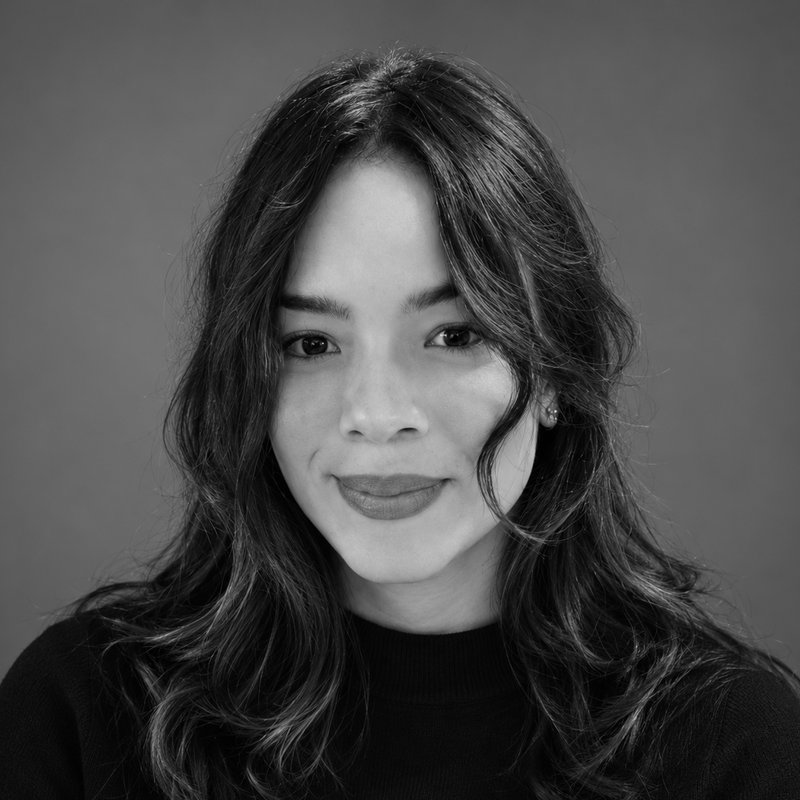
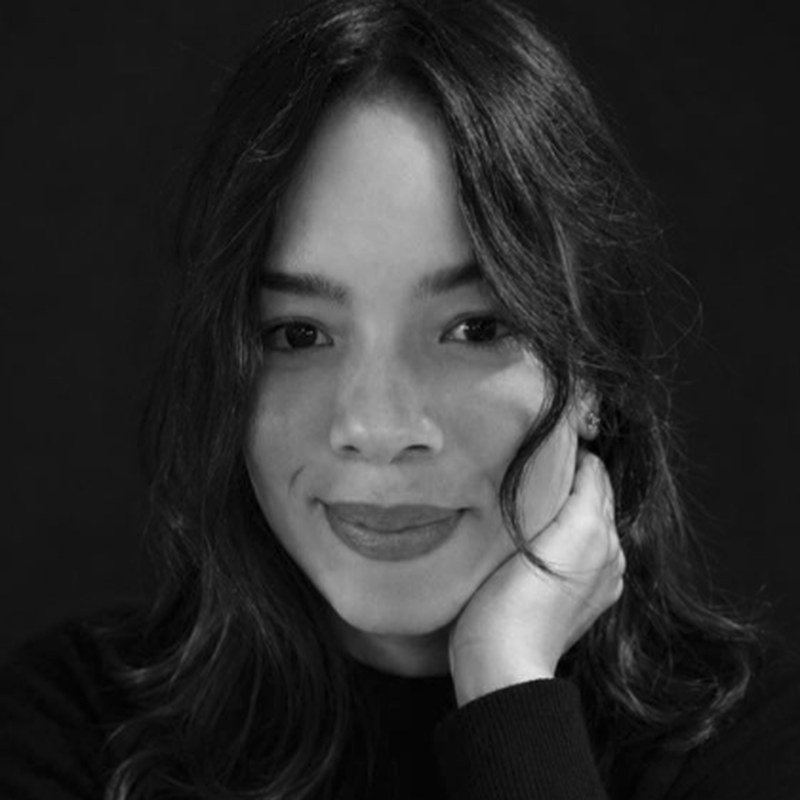
Martha Liliana Díaz Bustamante, Doctora en Ingeniería (2026)
- Pasa de los doctorados en curso a las egresadas: ficha en graduated/phd con su foto nueva,
  el resumen de su trabajo y el año de inicio; queda sin título de tesis ni cargo actual
  hasta tenerlos (thesisTitle pasa a ser opcional y la página muestra solo el resumen).
- /school: su párrafo entre los doctores y las cinco tesis; school.ts regenerado (cinco
  doctores, dos doctorados en curso, 42 egresados).
- /research/program: el caso de diseño sensorial la nombra como doctora, con su retrato.
- Su testimonio dice Doctora en Ingeniería, 2026, con la foto nueva.

Claude-Session: https://claude.ai/code/session_01PJbaXR3aNnjgr5EpgrT265

diff --git a/context/strings/researchChapter.ts b/context/strings/researchChapter.ts
@@ -115,6 +115,7 @@ export const researchChapter = {
   'rc.lvl.phd.now':       { en: 'Doctorate, in progress', es: 'Doctorado, en curso' },
   'rc.lvl.phd.co.now':    { en: 'Doctorate, co-advised, in progress', es: 'Doctorado, codirigido, en curso' },
   'rc.lvl.phd.felipe':    { en: 'Doctorate, with Felipe Reinoso-Carvalho', es: 'Doctorado, con Felipe Reinoso-Carvalho' },
+  'rc.lvl.phd.oscar':     { en: 'Doctorate, with Óscar Alberto Álvarez Solano, 2026', es: 'Doctorado, con Óscar Alberto Álvarez Solano, 2026' },
   'rc.lvl.ms':            { en: 'Master’s', es: 'Maestría' },
   'rc.lvl.ms.co':         { en: 'Master’s, co-advised', es: 'Maestría, codirigida' },
   'rc.lvl.ms.now':        { en: 'Master’s, in progress', es: 'Maestría, en curso' },
@@ -154,7 +155,7 @@ export const researchChapter = {
   'rc.case.sound.p1':     { en: 'Many healthier or more sustainable foods lose out to conventional ones because of what consumers expect from them and because of their texture. We asked whether both can be designed. With Felipe Reinoso-Carvalho, of the School of Management, I advised the doctorate of Brayan Rodríguez, now a professor at Pontificia Universidad Javeriana. In experiments with 592 people, the sound of a beer poured from the bottle reduced negative emotions toward non-alcoholic beer and raised its expected freshness. In work with Felipe’s collaborators at Instituto Universitário de Lisboa (Iscte), sounds of nature strengthened the perceived environmental sustainability of a product, and sounds of groups of people its social sustainability, in two studies with 517 participants.', es: 'Muchos alimentos más sanos o sostenibles pierden frente a los convencionales por lo que el consumidor espera de ellos y por su textura. Nos preguntamos si se pueden diseñar las dos cosas. Con Felipe Reinoso-Carvalho, de la Facultad de Administración, dirigí el doctorado de Brayan Rodríguez, hoy profesor de la Pontificia Universidad Javeriana. En experimentos con 592 personas, el sonido de una cerveza servida desde la botella redujo las emociones negativas hacia la cerveza sin alcohol y aumentó la frescura esperada. En un trabajo con colaboradores de Felipe en el Instituto Universitário de Lisboa (Iscte), los sonidos de la naturaleza reforzaron la sostenibilidad ambiental percibida de un producto, y los de grupos de personas, la social, en dos estudios con 517 participantes.' },
   'rc.case.sound.p2':     { en: 'In the last chapter of his doctorate, Brayan trained a deep learning model, on music that people had already rated, to predict how sweet, bitter, salty, sour or spicy a piece of music sounds. With those predictions we built Sonic Seasoning, an app that assembles playlists for the flavor profile and the genre you choose. The article is under review; the app is public and anyone can use it.', es: 'En el último capítulo de su doctorado, Brayan entrenó un modelo de aprendizaje profundo, con música que personas ya habían calificado, para predecir qué tan dulce, amarga, salada, ácida o picante suena una pieza. Con esas predicciones hicimos Sonic Seasoning, una aplicación que arma listas de reproducción según el perfil de sabor y el género que usted elija. El artículo está en revisión; la aplicación es pública y cualquiera puede usarla.' },
   'rc.case.sound.app':    { en: 'Open Sonic Seasoning', es: 'Abrir Sonic Seasoning' },
-  'rc.case.sound.p3':     { en: 'We study texture with Martha Liliana Díaz-Bustamante, now my doctoral student, and with Óscar Alberto Álvarez Solano. Two costeño cheeses with half and a quarter of the salt, cooked at 55 °C, resembled the control in composition and texture. In a soy yogurt, replacing 25 % of the protein with yeast grown on whey raised firmness by 54 % and cut fermentation to seven or eight hours, against almost 17. How consumers receive it is still to be measured.', es: 'La textura la estudiamos con Martha Liliana Díaz-Bustamante, hoy mi doctoranda, y con Óscar Alberto Álvarez Solano. Dos quesos costeños con la mitad y la cuarta parte de la sal, cocidos a 55 °C, se parecieron al control en composición y textura. En un yogur de soya, cambiar el 25 % de la proteína por levadura cultivada en lactosuero aumentó la firmeza 54 % y bajó la fermentación a siete u ocho horas, frente a casi 17. Falta medir cómo lo recibe el consumidor.' },
+  'rc.case.sound.p3':     { en: 'We studied texture with Martha Liliana Díaz-Bustamante, who earned her doctorate in 2026, and with Óscar Alberto Álvarez Solano. Two costeño cheeses with half and a quarter of the salt, cooked at 55 °C, resembled the control in composition and texture. In a soy yogurt, replacing 25 % of the protein with yeast grown on whey raised firmness by 54 % and cut fermentation to seven or eight hours, against almost 17. How consumers receive it is still to be measured.', es: 'La textura la estudiamos con Martha Liliana Díaz-Bustamante, que se doctoró en 2026, y con Óscar Alberto Álvarez Solano. Dos quesos costeños con la mitad y la cuarta parte de la sal, cocidos a 55 °C, se parecieron al control en composición y textura. En un yogur de soya, cambiar el 25 % de la proteína por levadura cultivada en lactosuero aumentó la firmeza 54 % y bajó la fermentación a siete u ocho horas, frente a casi 17. Falta medir cómo lo recibe el consumidor.' },
   'rc.case.sound.p4':     { en: 'Yeast shapes much of the flavor and aroma of a beer, and Carlos Yesiel González Murcia looks for it in Colombian biodiversity. Since 2026 he has been doing a Doctorate in Engineering on native yeasts for brewing, advised by Nicolás Ríos Ratkovich, of my department, and co-advised by me.', es: 'La levadura define buena parte del sabor y del aroma de una cerveza, y Carlos Yesiel González Murcia la busca en la biodiversidad colombiana. Desde 2026 hace el Doctorado en Ingeniería sobre levaduras nativas para producir cerveza, que dirige Nicolás Ríos Ratkovich, de mi departamento, y yo codirijo.' },
   'rc.case.sound.p5':     { en: 'On customer-centered food design I edited, with Andrea Sánchez-Camargo, Felipe Reinoso-Carvalho and Juan Carlos Cruz, *The Fundamentals of Customer-Centered Design of Food Products: A Multisensory Strategy Integrating Emerging Techniques*, which is in press with Academic Press (Elsevier) and comes out in February 2027.', es: 'Sobre el diseño de alimentos centrado en el consumidor edité, con Andrea Sánchez-Camargo, Felipe Reinoso-Carvalho y Juan Carlos Cruz, *The Fundamentals of Customer-Centered Design of Food Products: A Multisensory Strategy Integrating Emerging Techniques*, que está en prensa en Academic Press (Elsevier) y sale en febrero de 2027.' },
   'rc.case.sound.photo':  { en: 'Brayan Rodríguez with his Doctor of Engineering diploma, between his two advisors, 2025', es: 'Brayan Rodríguez con su diploma de Doctor en Ingeniería, entre sus dos directores, 2025' },

diff --git a/context/strings/school.ts b/context/strings/school.ts
@@ -77,7 +77,8 @@ export const school = {
   'school.phd.brayan': { en: 'He came from Universidad del Valle after a collaboration on how sound influences the choice of non-alcoholic beers. In his Doctorate in Engineering, which I co-advised with Felipe Reinoso-Carvalho and which he finished in 2025, he studied how sound changes the way we perceive sustainable food; of his {total} publications with me, he is first author of {first}. Today he is an assistant professor at Pontificia Universidad Javeriana.', es: 'Llegó desde la Universidad del Valle a raíz de una colaboración sobre cómo el sonido influye en la elección de cervezas sin alcohol. En su Doctorado en Ingeniería, que codirigí con Felipe Reinoso-Carvalho y que terminó en 2025, estudió cómo el sonido cambia la manera en que percibimos los alimentos sostenibles; de sus {total} publicaciones conmigo, en {first} es primer autor. Hoy es profesor asistente en la Pontificia Universidad Javeriana.' },
   'school.phd.becerra': { en: 'He did the Doctorate in Technological Innovation Management, which Juan Carlos Cruz and I advised and which he also finished in 2025, on a systemic model of technology extension for oil palm farming. He is first author of his {total} publications with me: {articles} articles and their Spanish translations, published by the journal *Palmas*. Today he leads technology extension at the Corporación Centro de Investigación en Palma de Aceite (Cenipalma). In 2026 Julián and Brayan published a paper together in *Scientific Reports* on how oil palm growers adopt sustainable practices.', es: 'Hizo el Doctorado en Gestión de la Innovación Tecnológica, que dirigimos Juan Carlos Cruz y yo y que terminó también en 2025, sobre un modelo sistémico de extensión tecnológica para el cultivo de palma de aceite. Es primer autor de sus {total} publicaciones conmigo: {articles} artículos y sus traducciones al español, que publicó la revista *Palmas*. Hoy dirige la extensión tecnológica de la Corporación Centro de Investigación en Palma de Aceite (Cenipalma). En 2026, Julián y Brayan publicaron juntos un artículo en *Scientific Reports* sobre cómo los palmicultores adoptan prácticas sostenibles.' },
   'school.phd.leal':   { en: 'He did the Doctorate in Biological Sciences at Pontificia Universidad Javeriana (2019-2023), which I co-advised. His project came from the Institute for the Study of Inborn Errors of Metabolism of the Javeriana, where I arrived in 2015 as the only engineer among biologists, microbiologists and pharmaceutical chemists. In his thesis he used CRISPR/nCas9 and non-viral vectors made of iron oxide nanoparticles to edit the genome in two rare diseases, GM2 gangliosidoses and mucopolysaccharidosis IVA. With that work we received in 2023 the award for the best scientific research in human health of the National Academy of Medicine of Colombia and the honorable mention in Exact, Physical and Natural Sciences of the Fundación Alejandro Ángel Escobar. He is first author of his {total} publications with me and today is co-founder and Chief Scientific Officer of Genine Therapeutics, in Bogotá.', es: 'Hizo el Doctorado en Ciencias Biológicas en la Pontificia Universidad Javeriana (2019-2023), y lo codirigí. Su proyecto venía del Instituto de Errores Innatos del Metabolismo de la Javeriana, al que llegué en 2015 como el único ingeniero entre biólogos, microbiólogos y químicos farmacéuticos. En su tesis usó CRISPR/nCas9 y vectores no virales de nanopartículas de óxido de hierro para editar el genoma en dos enfermedades raras, las gangliosidosis GM2 y la mucopolisacaridosis IVA. Con ese trabajo recibimos en 2023 el premio al mejor trabajo de investigación científica en salud humana de la Academia Nacional de Medicina de Colombia y la mención de honor en Ciencias Exactas, Físicas y Naturales de la Fundación Alejandro Ángel Escobar. Es primer autor de sus {total} publicaciones conmigo y hoy es cofundador y director científico de Genine Therapeutics, en Bogotá.' },
-  'school.phd.close':  { en: 'The {n} theses deal with nanomedicine, sensory perception, agricultural extension and genome editing, and they share something I defend in my teaching philosophy: with solid fundamentals you can move between disciplines without starting from zero.', es: 'Las {n} tesis tratan de nanomedicina, percepción sensorial, extensión agrícola y edición genómica, y las une lo que defiendo en mi filosofía docente: con fundamentos sólidos uno se mueve entre disciplinas sin empezar de cero.' },
+  'school.phd.diaz':   { en: 'She came to the group through Óscar Alberto Álvarez Solano, who supervised her first paper, from 2020, on costeño cheese with less salt. That year she started the Doctorate in Engineering, which Óscar and I co-advised and which she finished in November 2026, with a multiscale approach to designing dairy and cocoa bioproducts; her most recent work, a soy yogurt with part of its protein replaced by yeast grown on whey, came out in *ACS Omega* in 2026. She is first author of her {total} publications with me.', es: 'Llegó al grupo por Óscar Alberto Álvarez Solano, que supervisó su primer artículo, de 2020, sobre queso costeño con menos sal. Ese año empezó el Doctorado en Ingeniería, que codirigimos Óscar y yo y que terminó en noviembre de 2026, con un enfoque multiescala para diseñar bioproductos de lácteos y cacao; su trabajo más reciente, un yogur de soya con parte de la proteína cambiada por levadura cultivada en lactosuero, salió en *ACS Omega* en 2026. Es primera autora de sus {total} publicaciones conmigo.' },
+  'school.phd.close':  { en: 'The {n} theses deal with nanomedicine, sensory perception, agricultural extension, genome editing and food design, and they share something I defend in my teaching philosophy: with solid fundamentals you can move between disciplines without starting from zero.', es: 'Las {n} tesis tratan de nanomedicina, percepción sensorial, extensión agrícola, edición genómica y diseño de alimentos, y las une lo que defiendo en mi filosofía docente: con fundamentos sólidos uno se mueve entre disciplinas sin empezar de cero.' },
   'school.phd.philosophy': { en: 'My teaching philosophy', es: 'Mi filosofía docente' },
   'school.phd.brayanPhoto': { en: 'Brayan Rodríguez, Doctor of Engineering, with Felipe Reinoso-Carvalho and me, 2025.', es: 'Brayan Rodríguez, Doctor en Ingeniería, con Felipe Reinoso-Carvalho y conmigo, 2025.' },
   'school.phd.julianPhoto': { en: 'Julián Fernando Becerra-Encinales with Juan Carlos Cruz and me, 2025.', es: 'Julián Fernando Becerra-Encinales con Juan Carlos Cruz y conmigo, 2025.' },

diff --git a/components/data/students/graduated/phd/martha-liliana-diaz-bustamante.ts b/components/data/students/graduated/phd/martha-liliana-diaz-bustamante.ts
@@ -1,0 +1,26 @@
+import type { GraduatedStudent } from '../../../../types';
+
+const student: GraduatedStudent = {
+    name: 'Martha Liliana Díaz Bustamante',
+    degree: 'Doctor',
+    program: { en: 'Doctor of Engineering', es: 'Doctora en Ingeniería' },
+    graduationYear: 2026,
+    startedYear: 2020,
+    laymanSummary: [
+        {
+            question: { en: 'What was the problem?', es: '¿Cuál era el problema?' },
+            answer: { en: 'Healthier or more sustainable foods often lose out because they do not feel or behave like the products people already know. Dairy products are a clear case: taking out salt or replacing animal protein changes their texture and the way they are made.', es: 'Los alimentos más sanos o más sostenibles suelen perder porque no se sienten ni se comportan como los productos que la gente ya conoce. Los lácteos son un caso claro: quitarles sal o cambiar la proteína animal les cambia la textura y la manera de fabricarlos.' }
+        },
+        {
+            question: { en: 'What was the approach?', es: '¿Cuál fue el enfoque?' },
+            answer: { en: 'A multiscale approach to bioproduct design in dairy and cocoa production: it links what happens to molecules and microorganisms with the structure, the texture and the process of the whole product.', es: 'Un enfoque multiescala al diseño de bioproductos en la producción de lácteos y cacao, que une lo que pasa con las moléculas y los microorganismos con la estructura, la textura y el proceso del producto completo.' }
+        },
+        {
+            question: { en: 'What were the findings?', es: '¿Cuáles fueron los hallazgos?' },
+            answer: { en: 'Two costeño cheeses with half and a quarter of the salt, cooked at 55 °C, resembled the original in composition and texture. In a soy yogurt, replacing 25 % of the protein with yeast grown on whey raised firmness by 54 % and cut fermentation to seven or eight hours, against almost 17.', es: 'Dos quesos costeños con la mitad y la cuarta parte de la sal, cocidos a 55 °C, se parecieron al original en composición y textura. En un yogur de soya, cambiar el 25 % de la proteína por levadura cultivada en lactosuero aumentó la firmeza 54 % y bajó la fermentación a siete u ocho horas, frente a casi 17.' }
+        }
+    ],
+    imageUrl: '/images/students/martha-liliana-diaz-bustamante.jpg',
+};
+
+export default student;

diff --git a/pages/StudentsPage.tsx b/pages/StudentsPage.tsx
@@ -94,8 +94,12 @@ const DialogoTesis: React.FC<{ alumno: GraduatedStudent | null; onClose: () => v
               <figcaption className="a-pie">{localize(FOTO_DE_GRADO[alumno.name].alt, lang)}.</figcaption>
             </figure>
           )}
-          <p className="a-s text-tinta-600 mt-8">{t('students.thesis')}</p>
-          <p className="mt-1 font-semibold leading-snug text-tinta-900 max-w-[60ch]">{comillas(alumno.thesisTitle, lang)}</p>
+          {alumno.thesisTitle && (
+            <>
+              <p className="a-s text-tinta-600 mt-8">{t('students.thesis')}</p>
+              <p className="mt-1 font-semibold leading-snug text-tinta-900 max-w-[60ch]">{comillas(alumno.thesisTitle, lang)}</p>
+            </>
+          )}
           <div className="mt-8 space-y-6 border-t-2 border-tinta-900 pt-6">
             {alumno.laymanSummary.map((item, i) => (
               <div key={i}>
@@ -213,9 +217,13 @@ export const StudentsPage = () => {
                       {s.currentPosition && <p className="mt-3 text-tinta-800 max-w-[40ch]">{localize(s.currentPosition, lang)}</p>}
                     </div>
                     <div className="col-span-2 lg:col-span-1">
-                      <p className="a-s text-tinta-600">{t('students.thesis')}</p>
-                      <p className="mt-1 font-semibold leading-snug text-tinta-900 max-w-[52ch]">{comillas(s.thesisTitle, lang)}</p>
-                      <button type="button" onClick={() => setAbierto(s)} className="a-enlace a-s mt-4">
+                      {s.thesisTitle && (
+                        <>
+                          <p className="a-s text-tinta-600">{t('students.thesis')}</p>
+                          <p className="mt-1 font-semibold leading-snug text-tinta-900 max-w-[52ch]">{comillas(s.thesisTitle, lang)}</p>
+                        </>
+                      )}
+                      <button type="button" onClick={() => setAbierto(s)} className={`a-enlace a-s ${s.thesisTitle ? 'mt-4' : ''}`}>
                         {t('students.thesis.show')} <span aria-hidden="true">→</span>
                       </button>
                     </div>

diff --git a/components/data/teaching.ts b/components/data/teaching.ts
@@ -159,7 +159,7 @@ export const testimonials: Testimonial[] = [
       es: "Durante mi doctorado, Luis ha sido una persona fundamental en mi crecimiento como investigadora y también a nivel personal. Siempre ha tenido la paciencia para escuchar mis dudas, acompañarme en los momentos de estancamiento y ayudarme a encontrar nuevas perspectivas cuando no sabía cómo avanzar. Aunque me ha enseñado a asumir mi investigación con independencia y a reconocer que este es mi propio proceso, su acompañamiento ha hecho que el camino se sienta como un verdadero trabajo en equipo. Con él puedo hablar no solo de temas académicos, sino también compartir experiencias personales y expresar lo que pienso sin sentirme juzgada. Su cercanía, paciencia y capacidad para comprender las dificultades que implica hacer un doctorado han hecho que su orientación vaya mucho más allá de lo estrictamente académico. Valoro profundamente todo lo que me ha enseñado, la confianza que ha depositado en mí y, sobre todo, la inspiración que me brinda para querer ser cada día una mejor investigadora."
     },
     name: "Martha Liliana Díaz Bustamante",
-    info: { en: "Doctoral student in Engineering", es: "Doctoranda en Ingeniería" },
+    info: { en: "Doctor of Engineering, 2026", es: "Doctora en Ingeniería, 2026" },
     imageUrl: "/images/testimonials/martha-liliana-diaz-bustamante.jpg",
     context: { en: "Doctoral advising", es: "Dirección de doctorado" },
     category: 'Research Advising'

diff --git a/components/data/students/current.ts b/components/data/students/current.ts
@@ -6,7 +6,6 @@ export const studentsData: {
 } = {
     phd: [
         { name: 'Martha Lizeth Castellanos Ordóñez', degree: 'Ph.D.', info: { en: 'Developing an integrated management system for innovation and process optimization in odor control at the El Paraíso Hydroelectric Plant.', es: 'Desarrolla un sistema integrado de gestión para la innovación y la optimización de procesos en el control de olores en la Central Hidroeléctrica El Paraíso.' } },
-        { name: 'Martha Liliana Díaz Bustamante', degree: 'Ph.D.', info: { en: 'Applying a multiscale approach to bioproduct design in dairy and cocoa production.', es: 'Aplica un enfoque multiescala al diseño de bioproductos en la producción de lácteos y cacao.' } },
         { name: 'Carlos Yesiel González Murcia', degree: 'Ph.D.', info: { en: 'Doctorate in Engineering at Universidad de los Andes, since 2026-20. Explores Colombian biodiversity in search of native yeasts for brewing beer. Advised by Nicolás Ríos Ratkovich and co-advised by me.', es: 'Doctorado en Ingeniería en la Universidad de los Andes, desde 2026-20. Explora la biodiversidad colombiana en busca de levaduras nativas para producir cerveza. Lo dirige Nicolás Ríos Ratkovich y yo lo codirijo.' } },
     ],
     ms: [

diff --git a/components/data/students/school.ts b/components/data/students/school.ts
@@ -11,7 +11,7 @@ export const schoolFigures = {
   "masters": 41,
   "doctorate": 7,
   "current": {
-    "phd": 3,
+    "phd": 2,
     "ms": 5
   },
   "coauthors": 13,
@@ -45,7 +45,7 @@ export const schoolFigures = {
     ]
   },
   "graduates": {
-    "total": 41,
+    "total": 42,
     "known": 39,
     "destinations": [
       ["industry", 23],
@@ -159,6 +159,17 @@ export const schoolFigures = {
         "2026": 3
       },
       "translations": 3
+    },
+    "Martha Liliana Díaz Bustamante": {
+      "total": 4,
+      "first": 4,
+      "byYear": {
+        "2020": 1,
+        "2022": 1,
+        "2023": 1,
+        "2026": 1
+      },
+      "translations": 0
     }
   },
   "breweries": {

diff --git a/pages/ResearchProgramPage.tsx b/pages/ResearchProgramPage.tsx
@@ -148,7 +148,7 @@ const CASOS: Caso[] = [
     foto: { f: fotos.gradoBrayan, pie: 'rc.case.sound.photo', pos: 'center 35%' },
     estudiantes: [
       { nombre: 'Brayan Rodríguez', nivel: 'rc.lvl.phd.felipe', foto: retrato('brayan-rodriguez') },
-      { nombre: 'Martha Liliana Díaz-Bustamante', nivel: 'rc.lvl.phd.now', foto: '/images/testimonials/martha-liliana-diaz-bustamante.jpg' },
+      { nombre: 'Martha Liliana Díaz-Bustamante', nivel: 'rc.lvl.phd.oscar', foto: retrato('martha-liliana-diaz-bustamante') },
       { nombre: 'Carlos Yesiel González Murcia', nivel: 'rc.lvl.phd.co.now', foto: retrato('carlos-yesiel-gonzalez-murcia') },
     ],
     publicaciones: [

diff --git a/components/data/students/graduated/index.ts b/components/data/students/graduated/index.ts
@@ -5,6 +5,7 @@ import julianBecerra from './phd/julian-fernando-becerra-encinales';
 import brayanRodriguez from './phd/brayan-rodriguez';
 import andresLeal from './phd/andres-felipe-leal';
 import julianTorres from './phd/julian-daniel-torres-vanegas';
+import marthaDiaz from './phd/martha-liliana-diaz-bustamante';
 
 // Import MS graduates
 import lauraSalgado from './ms/laura-tatiana-salgado';
@@ -50,6 +51,7 @@ export const graduatedStudentsData: {
     ms: GraduatedStudent[];
 } = {
     phd: [
+        marthaDiaz,
         julianBecerra,
         brayanRodriguez,
         andresLeal,

diff --git a/pages/SchoolPage.tsx b/pages/SchoolPage.tsx
@@ -83,6 +83,7 @@ const DOCTORES: { nombre: string; texto: UIKey }[] = [
   { nombre: 'Brayan Rodríguez', texto: 'school.phd.brayan' },
   { nombre: 'Julián Fernando Becerra-Encinales', texto: 'school.phd.becerra' },
   { nombre: 'Andrés Felipe Leal', texto: 'school.phd.leal' },
+  { nombre: 'Martha Liliana Díaz Bustamante', texto: 'school.phd.diaz' },
 ];
 
 // Testimonios de dirigidos. Carlos y Angie ya hablan en su propio bloque; el resto, en este orden.

diff --git a/types.ts b/types.ts
@@ -57,7 +57,8 @@ export interface GraduatedStudent {
   startedYear?: number; // Optional: left out when unknown rather than guessed
   currentPosition?: Localized;
   linkedinUrl?: string;
-  thesisTitle: string;
+  /** Left out while the exact title is not at hand: the page then shows only the summary. */
+  thesisTitle?: string;
   laymanSummary: StudentLaymanSummaryPoint[];
   imageUrl: string;
 }
